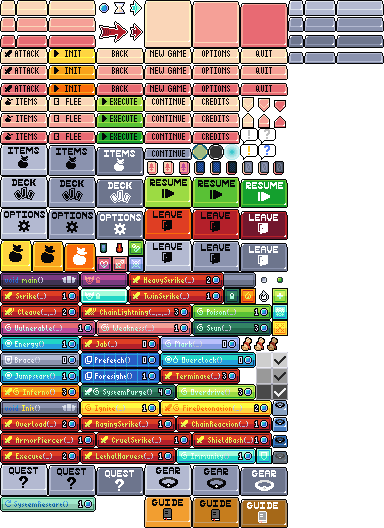
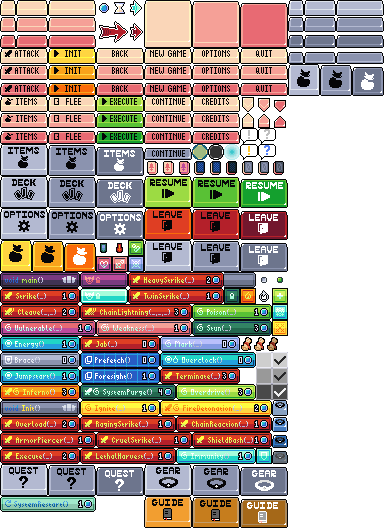
[chore]: update hud button

Changed region(s): [[0.75, 0.1212, 1.0, 0.1818]]

diff --git a/demo/PlayerHUD.cpp b/demo/PlayerHUD.cpp
@@ -27,7 +27,7 @@ namespace {
 	constexpr float CONTENT_GAP = 10.0f;
 
 	constexpr float BUTTON_SCALE = 1.5f;
-	constexpr float BUTTON_W = 48.0f * BUTTON_SCALE;
+	constexpr float BUTTON_W = 32.0f * BUTTON_SCALE;
 	constexpr float BUTTON_H = 32.0f * BUTTON_SCALE;
 
 	constexpr D3DCOLOR PANEL_OUTLINE = 0xFF262620;
@@ -66,7 +66,7 @@ void Demo::PlayerHUD::Init()
 	uiTex->LoadTexture(L"assets/ui.png");
 
 	btnInventory = std::make_shared<IconButton>(transformManager, 0.0f, 0.0f, static_cast<int>(BUTTON_W), static_cast<int>(BUTTON_H), uiTex);
-	btnInventory->SetSpriteRects(DX9GF::Utils::CreateRectsHorizontal(0, 144, 48, 32, 3));
+	btnInventory->SetSpriteRects(DX9GF::Utils::CreateRectsHorizontal(288, 64, 32, 32, 3));
 	btnInventory->SetSpriteScale(BUTTON_SCALE, BUTTON_SCALE);
 	btnInventory->SetOnReleaseLeft([this](DX9GF::ITrigger*) {
 		if (onInventoryOpen) onInventoryOpen();
